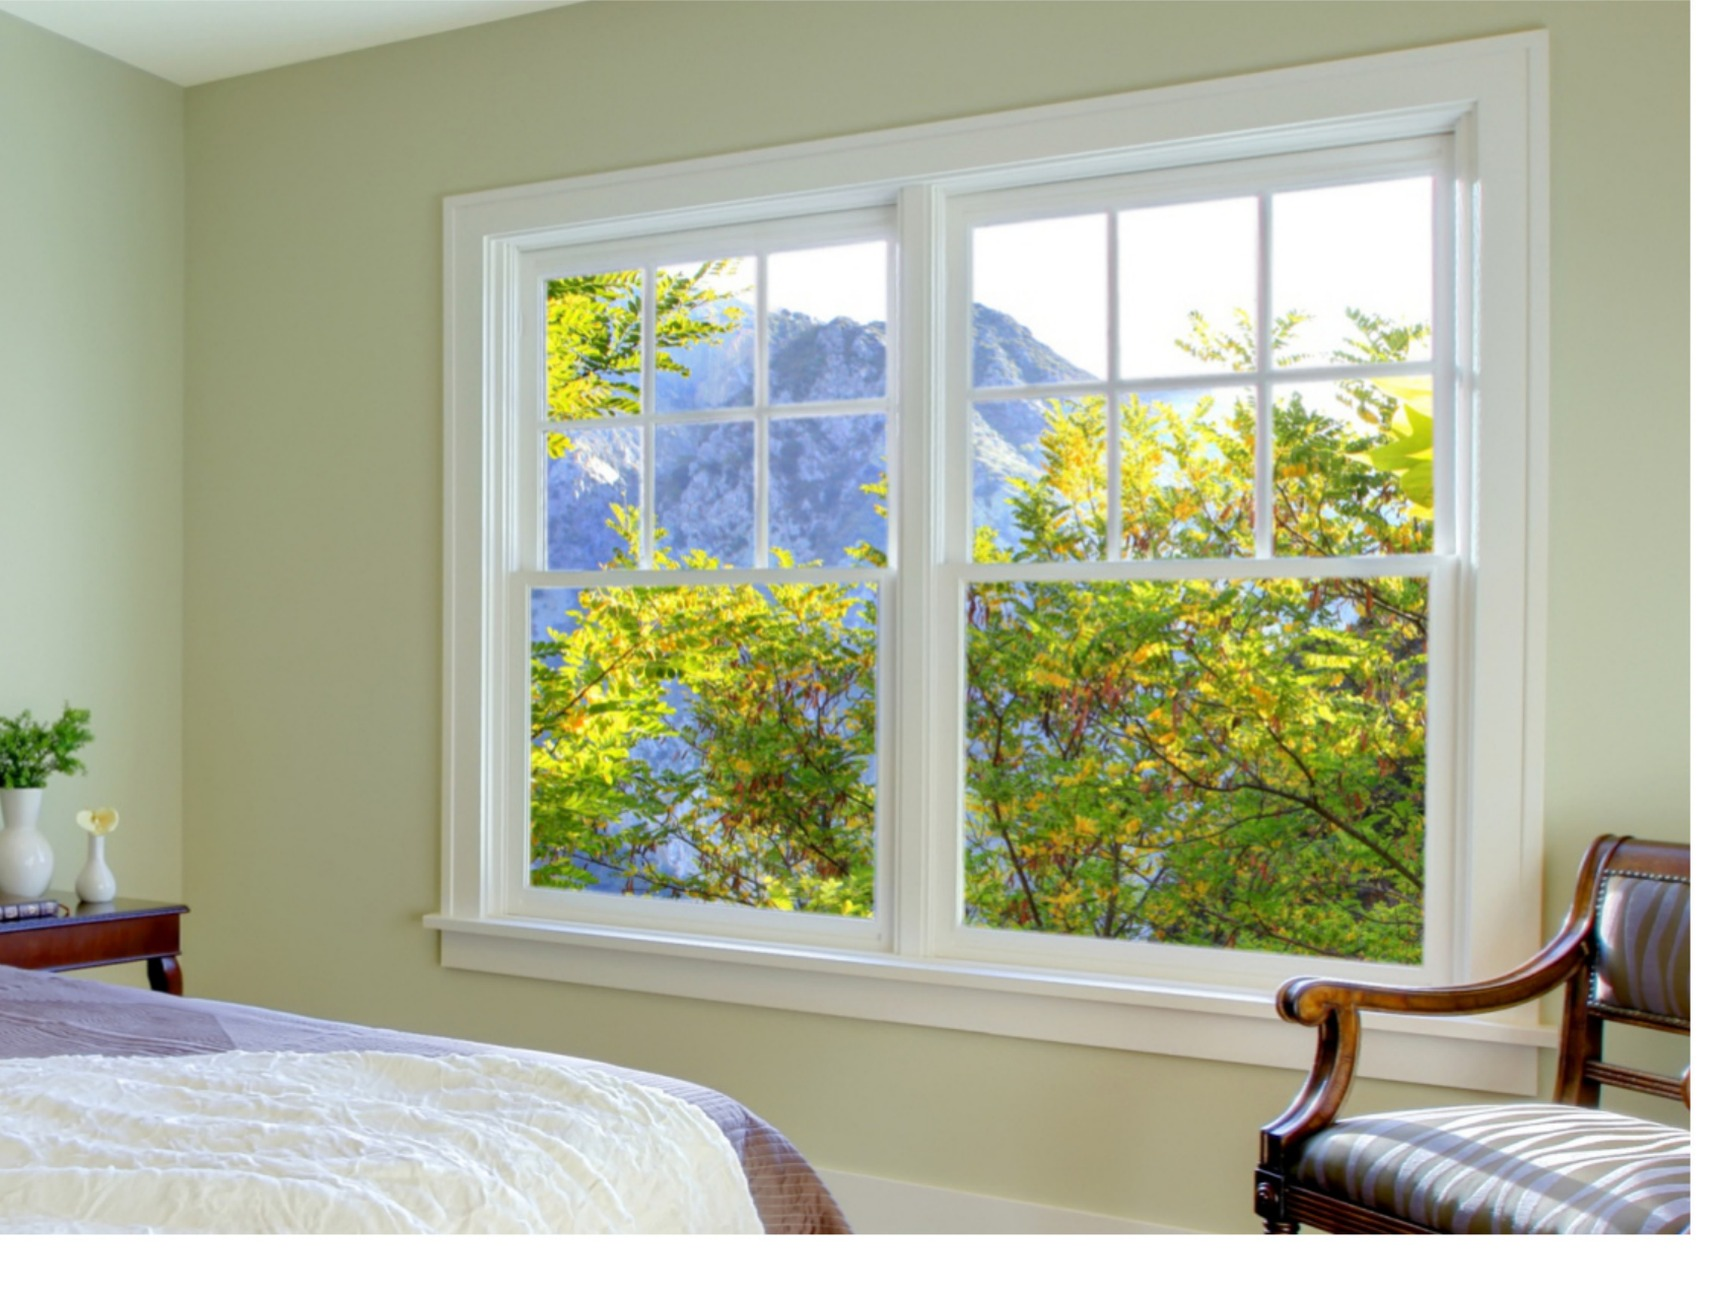
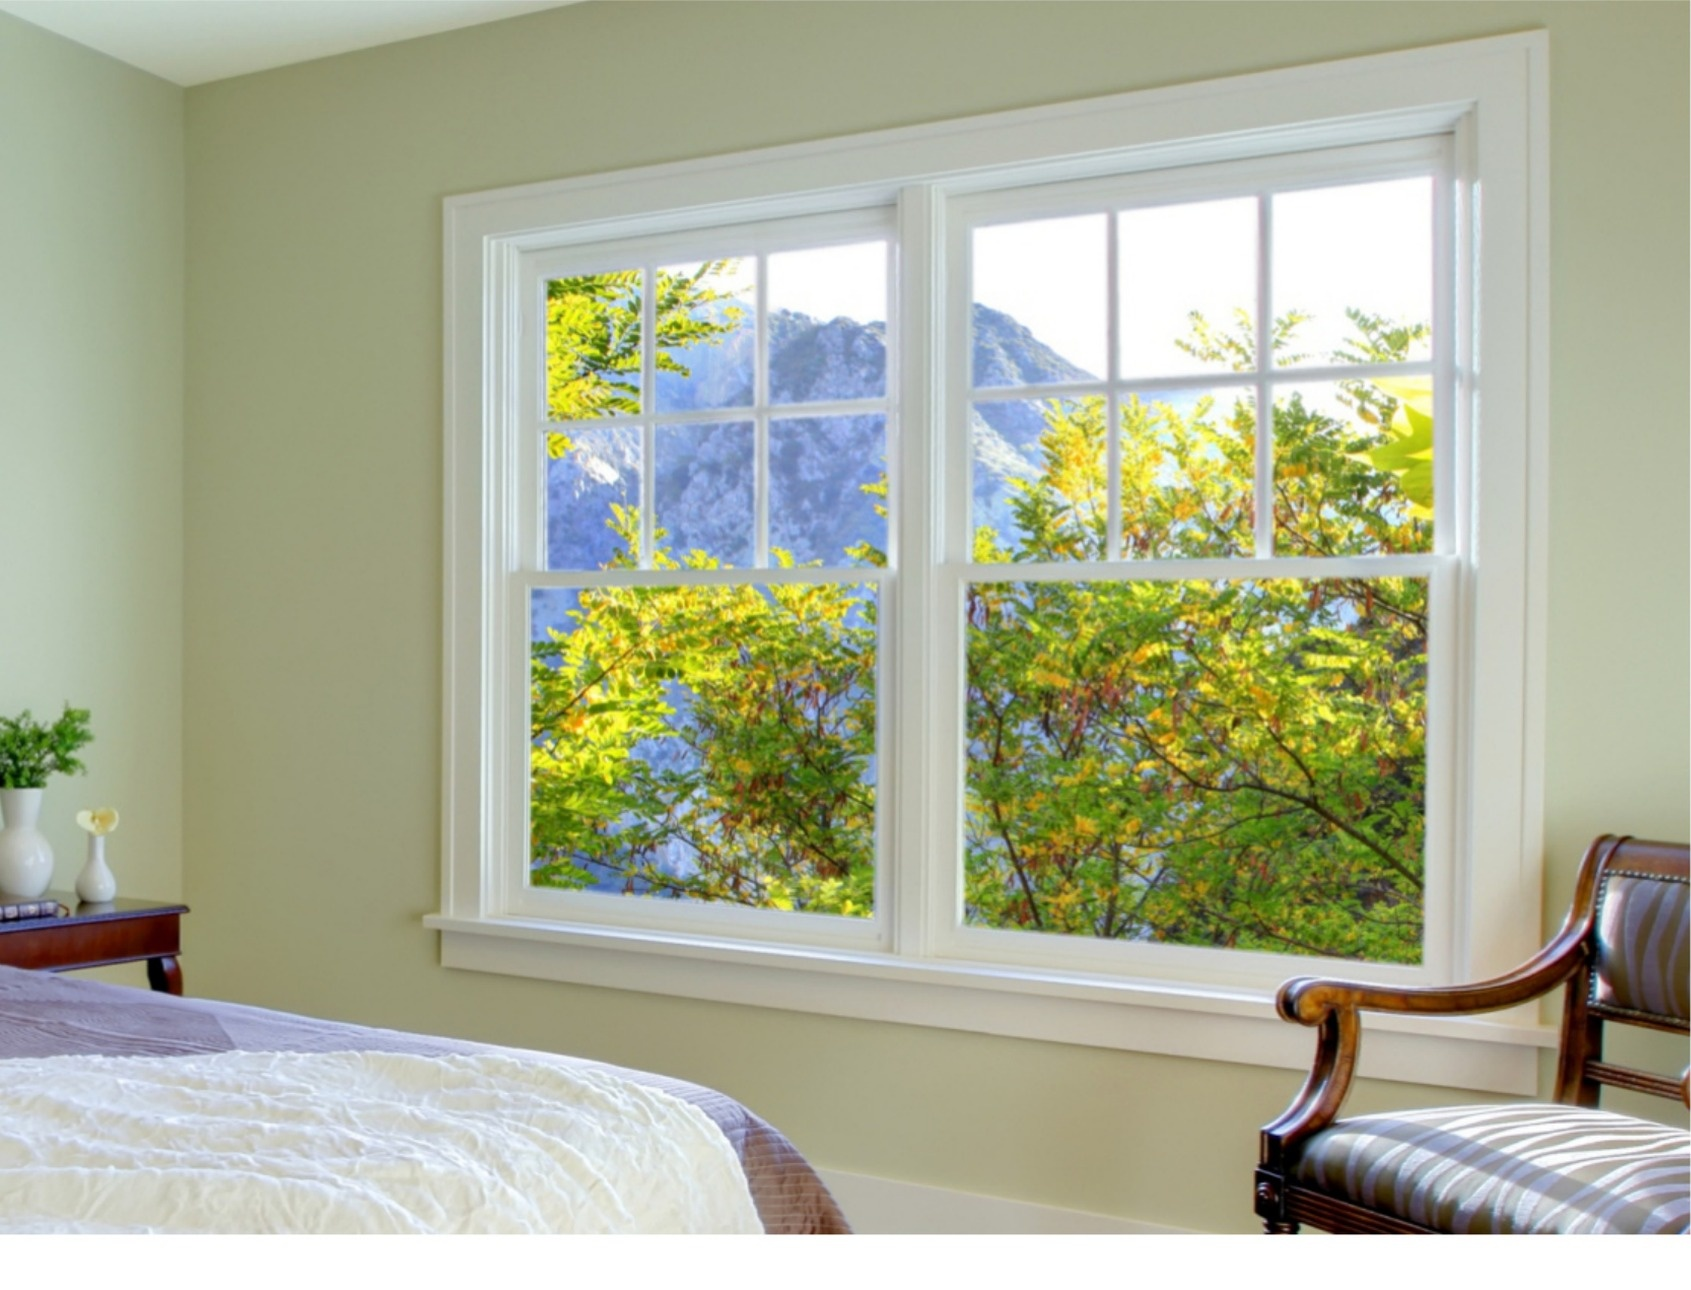
By-type: swap 4 card images + crop white strips from hung and French door images

diff --git a/products/by-type/index.html b/products/by-type/index.html
@@ -374,7 +374,7 @@
             <!-- Card 2 -->
             <a href="../../products/by-type/casement/" class="bt-card">
               <div class="bt-card__img">
-                <img src="../../img/upvc-cas-hero.jpg" alt="uPVC casement window" width="600" height="400" loading="lazy">
+                <img src="../../img/upvc-wj72-hero.jpg" alt="uPVC casement window" width="600" height="400" loading="lazy">
               </div>
               <p class="bt-card__material">uPVC</p>
               <p class="bt-card__name">uPVC Casement Windows</p>
@@ -410,7 +410,7 @@
             <!-- Card 7 -->
             <a href="../../products/by-type/tilt-turn/" class="bt-card">
               <div class="bt-card__img">
-                <img src="../../img/al-tilt-turn-hero.jpg" alt="Aluminum tilt-turn window" width="600" height="400" loading="lazy">
+                <img src="../../img/al-x76-window-hero.jpg" alt="Aluminum tilt-turn window" width="600" height="400" loading="lazy">
               </div>
               <p class="bt-card__material">Aluminum</p>
               <p class="bt-card__name">Aluminum Tilt-Turn Windows</p>
@@ -419,7 +419,7 @@
             <!-- Card 8 -->
             <a href="../../products/by-type/tilt-turn/" class="bt-card">
               <div class="bt-card__img">
-                <img src="../../img/upvc-tt-hero.jpg" alt="uPVC tilt-turn window" width="600" height="400" loading="lazy">
+                <img src="../../img/upvc-prm58u-window-hero.jpg" alt="uPVC tilt-turn window" width="600" height="400" loading="lazy">
               </div>
               <p class="bt-card__material">uPVC</p>
               <p class="bt-card__name">uPVC Tilt-Turn Windows</p>
@@ -493,7 +493,7 @@
             <!-- Card 12 -->
             <a href="../../products/by-type/sliding/" class="bt-card">
               <div class="bt-card__img">
-                <img src="../../img/upvc-sliding-hero.jpg" alt="uPVC sliding window" width="600" height="400" loading="lazy">
+                <img src="../../img/upvc-ld-p80-window-hero.jpg" alt="uPVC sliding window" width="600" height="400" loading="lazy">
               </div>
               <p class="bt-card__material">uPVC</p>
               <p class="bt-card__name">uPVC Sliding Windows</p>

diff --git a/src/products/by-type.html b/src/products/by-type.html
@@ -155,7 +155,7 @@
             <!-- Card 2 -->
             <a href="/products/by-type/casement/" class="bt-card">
               <div class="bt-card__img">
-                <img src="/img/upvc-cas-hero.jpg" alt="uPVC casement window" width="600" height="400" loading="lazy">
+                <img src="/img/upvc-wj72-hero.jpg" alt="uPVC casement window" width="600" height="400" loading="lazy">
               </div>
               <p class="bt-card__material">uPVC</p>
               <p class="bt-card__name">uPVC Casement Windows</p>
@@ -191,7 +191,7 @@
             <!-- Card 7 -->
             <a href="/products/by-type/tilt-turn/" class="bt-card">
               <div class="bt-card__img">
-                <img src="/img/al-tilt-turn-hero.jpg" alt="Aluminum tilt-turn window" width="600" height="400" loading="lazy">
+                <img src="/img/al-x76-window-hero.jpg" alt="Aluminum tilt-turn window" width="600" height="400" loading="lazy">
               </div>
               <p class="bt-card__material">Aluminum</p>
               <p class="bt-card__name">Aluminum Tilt-Turn Windows</p>
@@ -200,7 +200,7 @@
             <!-- Card 8 -->
             <a href="/products/by-type/tilt-turn/" class="bt-card">
               <div class="bt-card__img">
-                <img src="/img/upvc-tt-hero.jpg" alt="uPVC tilt-turn window" width="600" height="400" loading="lazy">
+                <img src="/img/upvc-prm58u-window-hero.jpg" alt="uPVC tilt-turn window" width="600" height="400" loading="lazy">
               </div>
               <p class="bt-card__material">uPVC</p>
               <p class="bt-card__name">uPVC Tilt-Turn Windows</p>
@@ -274,7 +274,7 @@
             <!-- Card 12 -->
             <a href="/products/by-type/sliding/" class="bt-card">
               <div class="bt-card__img">
-                <img src="/img/upvc-sliding-hero.jpg" alt="uPVC sliding window" width="600" height="400" loading="lazy">
+                <img src="/img/upvc-ld-p80-window-hero.jpg" alt="uPVC sliding window" width="600" height="400" loading="lazy">
               </div>
               <p class="bt-card__material">uPVC</p>
               <p class="bt-card__name">uPVC Sliding Windows</p>
